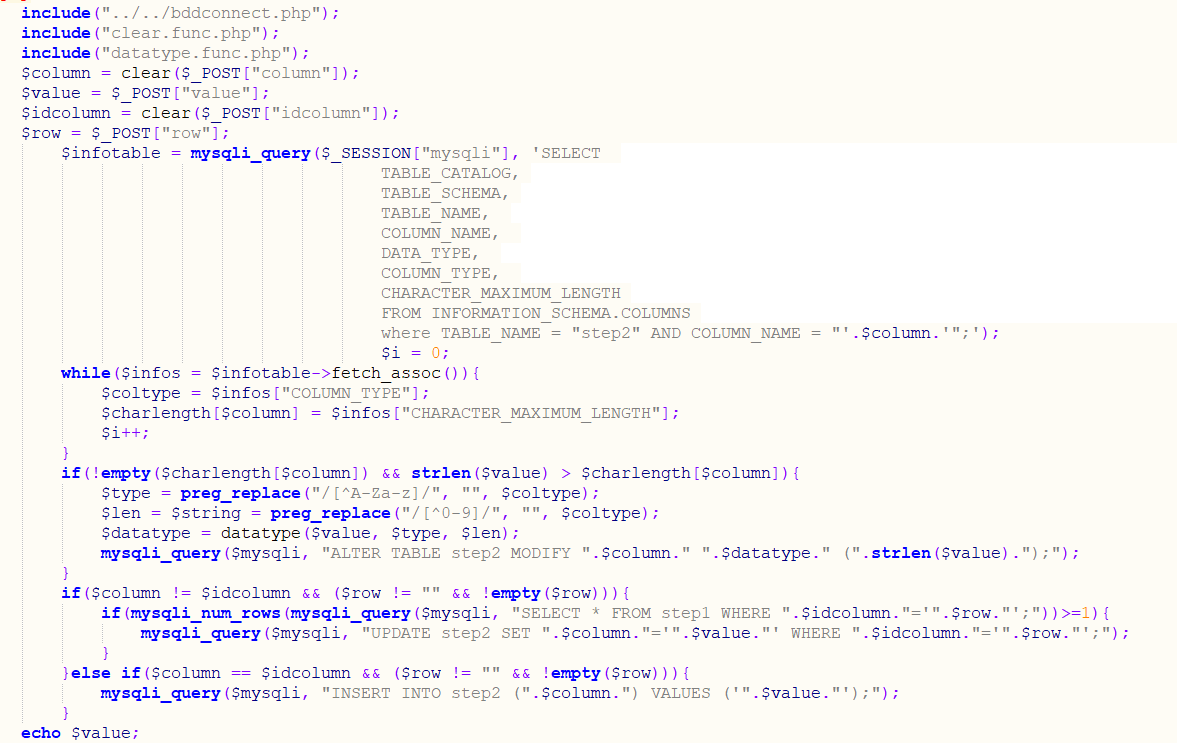
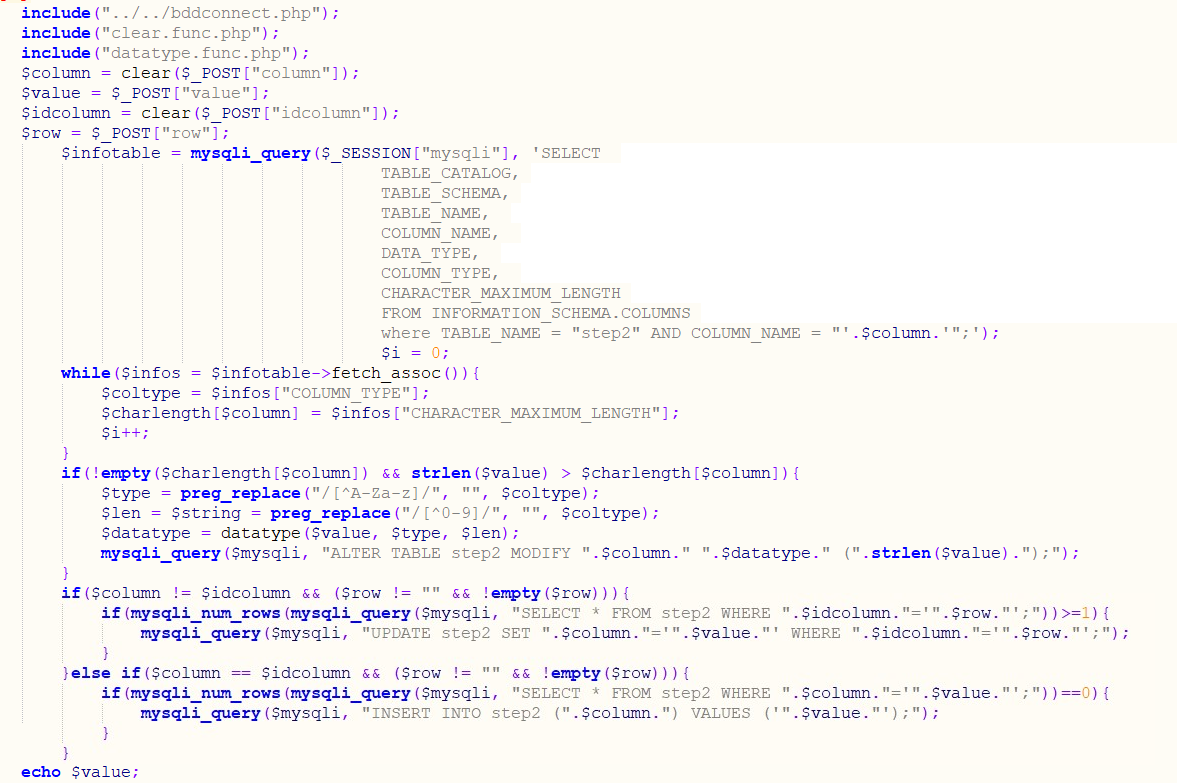
commit

diff --git a/exemple/js/edit.js b/exemple/js/edit.js
@@ -94,6 +94,8 @@ window.addEventListener("load", function(){
 					comcontain[i][j].style.left =  80*(j+1)+40+"px";
 					comcontain[i][j].style.top =  40*i+5+"px";
 					comcontain[i][j].appendChild(phyl[i][j]);
+					console.log(phyl[i][j]);
+					console.log(comcontain[i][j]);
 					comcontain[i][j].appendChild(comment[i][j]);
 					comcontain[i][j].addEventListener('click', comdisp, false);
 				}
@@ -165,7 +167,6 @@ window.addEventListener("load", function(){
 						if(typeof(results[i]) != "undefined" && typeof(results[i][j]) != "undefined" && results[i][j] != null){
 							comment[i][j].innerText = "*"+(i*j)+" //"+results[i][j];
 						}
-						note.style.color = "grey";
 					}
 				}
 				

diff --git a/exemple/css/style.css b/exemple/css/style.css
@@ -158,7 +158,7 @@ color: #5bcedb;   /*Modif 09/05*/
     background: #ededed;
   }
   
-  .dhx_grid-comment{
+  .dhx_grid-comcell .dhx_grid-comment{
 	  background: none;
 		display: none;
 	  color: grey;
@@ -167,7 +167,11 @@ color: #5bcedb;   /*Modif 09/05*/
   .dhx_grid-comcell{
 	  background: none;
 	  position: absolute;
+		display: inline;
 	  color: grey;
+  }
+  .dhx_grid-comcell img{
+		display: inline;
   }
 
   .btnchart{

diff --git a/exemple/inc.php/parts/send_data.inc.php b/exemple/inc.php/parts/send_data.inc.php
@@ -36,7 +36,6 @@
 			}
 		}else if($column == $idcolumn && ($row != "" && !empty($row))){
 			if(mysqli_num_rows(mysqli_query($mysqli, "SELECT * FROM step1 WHERE ".$column."='".$value."';"))==0){
-				echo "SELECT * FROM step1 WHERE ".$column."='".$value."';";
 				mysqli_query($mysqli, "INSERT INTO step1 (".$column.") VALUES ('".$value."');");
 			}
 		}
@@ -64,11 +63,13 @@
 			mysqli_query($mysqli, "ALTER TABLE step2 MODIFY ".$column." ".$datatype." (".strlen($value).");");
 		}
 		if($column != $idcolumn && ($row != "" && !empty($row))){
-			if(mysqli_num_rows(mysqli_query($mysqli, "SELECT * FROM step1 WHERE ".$idcolumn."='".$row."';"))>=1){
+			if(mysqli_num_rows(mysqli_query($mysqli, "SELECT * FROM step2 WHERE ".$idcolumn."='".$row."';"))>=1){
 				mysqli_query($mysqli, "UPDATE step2 SET ".$column."='".$value."' WHERE ".$idcolumn."='".$row."';");
 			}
 		}else if($column == $idcolumn && ($row != "" && !empty($row))){
-			mysqli_query($mysqli, "INSERT INTO step2 (".$column.") VALUES ('".$value."');");
+			if(mysqli_num_rows(mysqli_query($mysqli, "SELECT * FROM step2 WHERE ".$column."='".$value."';"))==0){
+				mysqli_query($mysqli, "INSERT INTO step2 (".$column.") VALUES ('".$value."');");
+			}
 		}
 	}
 	echo $value;

diff --git a/exemple/inc.php/parts/grid.inc.php b/exemple/inc.php/parts/grid.inc.php
@@ -189,7 +189,6 @@ grid.export.csv();
 }
 /*import file*/
 if (id === "fileOpen") {
-            console.log("oui");
 let input = document.createElement("input");
   input.type = "file";
   input.onchange = _ => {
